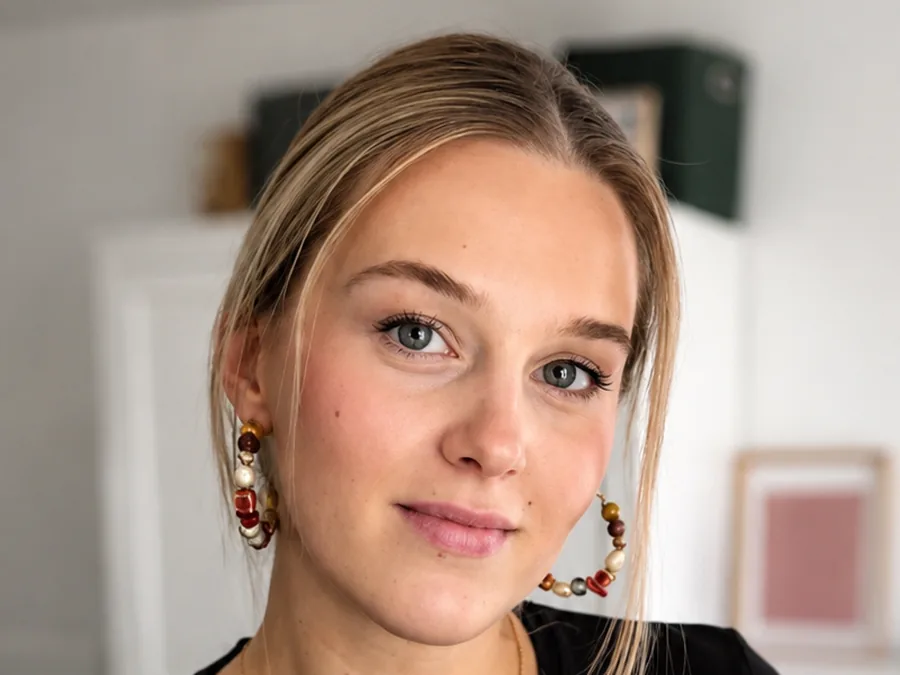
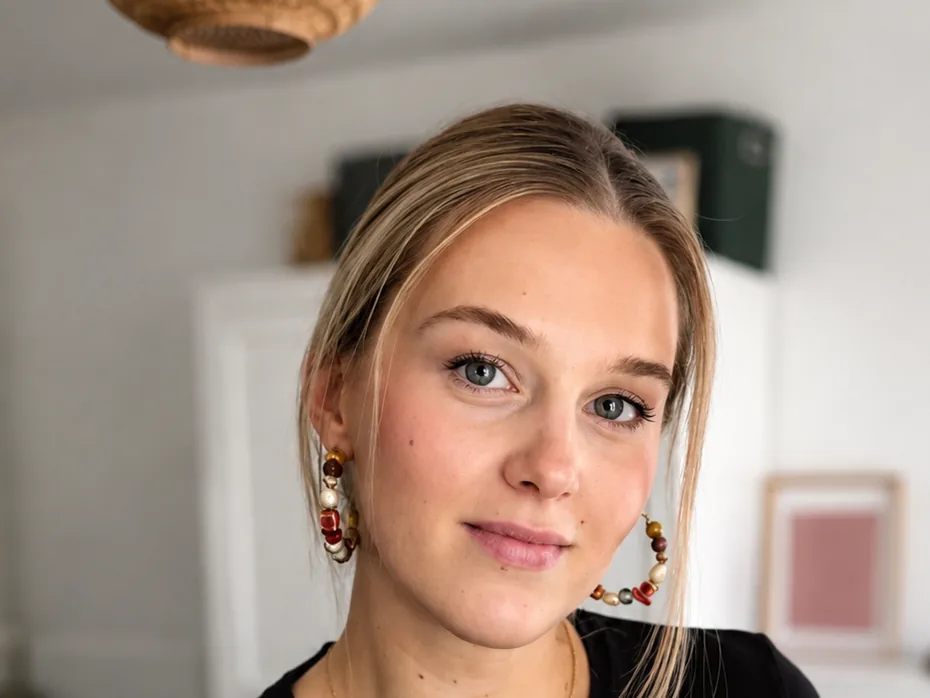
Héros mobile : la photo ramenée à 30 % de l'écran
Elle en occupait 40 %, et repoussait le bouton hors du premier écran sur
iPhone SE et iPhone 13. La hauteur passe en part d'écran (`svh`) plutôt
qu'en rapport d'image : 30 % du plus petit au plus grand téléphone, au lieu
de 36 à 40 % selon le modèle.

30 % s'est révélé être un plancher, pas un réglage esthétique. La photo
d'origine ne fait que 931 px de large : dans un cadre de 350 px, le visage
se rend à 188 px quoi qu'on fasse. À 26 % le cadre coupait le menton, et
une découpe 16/9 ne pouvait pas contenir la tête entière — la source est
verticale. La découpe mobile prend donc toute la largeur disponible : moins
on zoome, moins la tête occupe de hauteur une fois rendue, et plus la bande
visible peut être basse.

Le premier écran contient désormais la photo, la ville, le titre entier, le
texte et le bouton principal. L'accueil passe de 1,9 à 1,8 écran.

Claude-Session: https://claude.ai/code/session_01Ag5QUuzeD211m7UujAwsoY

diff --git a/assets/css/style.css b/assets/css/style.css
@@ -1055,9 +1055,15 @@ body.ready .anim-pop{ animation:pop .7s var(--ease-out) var(--d,0s) forwards; }
      hauteur est plafonnée : à 500 px elle repoussait le titre à 728 px,
      hors d'un écran de 664. */
   .hero__visual{ width:100%; max-width:460px; justify-self:center; order:-1; margin-bottom:0; }
-  /* La découpe horizontale est déjà cadrée pour cette arche : elle se
-     pose telle quelle, sans plafond de hauteur ni décalage à rattraper. */
-  .hero__photo{ aspect-ratio:4/3; }
+  /* Hauteur exprimée en part d'écran, pas en rapport d'image : à 4/3 la
+     photo prenait 40 % du premier écran et repoussait le bouton hors de
+     vue sur iPhone SE et 13. Ici elle en occupe ~26 % quel que soit le
+     téléphone, et le bouton rentre partout. */
+  /* 30 % de l'écran : en dessous, le cadre est trop court pour contenir
+     la tête entière — la photo d'origine ne fait que 931 px de large, donc
+     le visage se rend à 188 px quoi qu'on fasse. */
+  .hero__photo{ aspect-ratio:auto; height:clamp(165px,30svh,245px); }
+  .hero__photo img{ object-position:50% 42%; }
   /* Arche moins haute : sur une image large, un demi-cercle plein
      mangeait le haut du visage. */
   .hero__photo.arch{ border-radius:44% 44% var(--r-lg) var(--r-lg) / 30% 30% var(--r-lg) var(--r-lg); }

diff --git a/index.html b/index.html
@@ -165,7 +165,7 @@
                  du desktop, horizontale pour l'arche large du téléphone.
                  Rogner la verticale à la hauteur du mobile perdait les côtés. -->
             <picture>
-              <source media="(max-width:860px)" srcset="assets/img/marie-hero-large.webp" width="900" height="675">
+              <source media="(max-width:860px)" srcset="assets/img/marie-hero-large.webp" width="930" height="698">
               <img draggable="false" src="assets/img/marie-hero.webp" alt="Marie, masseuse bien-être à Voisins-le-Bretonneux" width="1040" height="1144" fetchpriority="high" decoding="async">
             </picture>
           </figure>

diff --git a/tools-photos.py b/tools-photos.py
@@ -21,20 +21,27 @@ DEST   = ROOT / 'assets/img'
 # Repères relevés sur la photo (fractions de largeur / hauteur).
 VISAGE_X, VISAGE_Y = 0.55, 0.40
 
-# nom, rapport largeur/hauteur, largeur finale, part de l'image gardée
+# nom, rapport, largeur finale, part de l'image gardée, visée verticale
+# (la visée par défaut convient aux formats hauts ; un bandeau large doit
+#  viser plus haut, sinon le crâne sort du cadre)
 FORMATS = [
     # Héros de l'accueil : arche, un peu plus haute que large.
-    ('marie-hero.webp',    1 / 1.1,  1040, 0.98),
+    ('marie-hero.webp',      1 / 1.1, 1040, 0.98, VISAGE_Y),
     # Page « à propos » : portrait 4/5.
-    ('marie-portrait.webp', 4 / 5,    800, 0.92),
+    ('marie-portrait.webp',  4 / 5,    800, 0.92, VISAGE_Y),
     # Héros sur téléphone : l'arche y est large et basse. Recadrer la
     # version verticale à cette hauteur rognait les côtés et cassait la
     # composition ; cette découpe-ci est cadrée pour ce format.
-    ('marie-hero-large.webp', 4 / 3,   900, 0.86),
+    # Cadrée large mais pas en bandeau : c'est le conteneur qui découpe
+    # la bande finale, via `object-position`. Une découpe 16/9 ne pouvait
+    # pas contenir la tête entière, la photo d'origine étant verticale.
+    # Toute la largeur disponible : moins on zoome, moins la tête occupe
+    # de hauteur une fois rendue, et plus la bande visible peut être basse.
+    ('marie-hero-large.webp', 4 / 3,   930, 1.00, 0.385),
 ]
 
 
-def recadre(im, rapport, part):
+def recadre(im, rapport, part, visee_y):
     """Recadre autour du visage, en gardant `part` de la dimension limitante."""
     W, H = im.size
     # Plus grande boîte au bon rapport qui tienne dans l'image.
@@ -45,7 +52,7 @@ def recadre(im, rapport, part):
         w = W * part
         h = w / rapport
 
-    cx, cy = W * VISAGE_X, H * VISAGE_Y
+    cx, cy = W * VISAGE_X, H * visee_y
     x = min(max(cx - w / 2, 0), W - w)
     y = min(max(cy - h / 2, 0), H - h)
     return im.crop((round(x), round(y), round(x + w), round(y + h)))
@@ -57,8 +64,8 @@ def main():
     src = Image.open(SOURCE).convert('RGB')
     print(f'source : {src.size[0]}×{src.size[1]}')
 
-    for nom, rapport, largeur, part in FORMATS:
-        im = recadre(src, rapport, part)
+    for nom, rapport, largeur, part, visee in FORMATS:
+        im = recadre(src, rapport, part, visee)
         im = im.resize((largeur, round(largeur / rapport)), Image.LANCZOS)
         chemin = DEST / nom
         im.save(chemin, quality=82, method=6)

diff --git a/README.md b/README.md
@@ -148,10 +148,19 @@ python3 tools-photos.py
 | `marie-portrait.webp`   | bloc « à propos »         | 800 × 1000  |
 
 Le héros sert **une découpe par format**, via `<picture>`. L'arche est haute
-sur desktop, large et basse sur téléphone : rogner la version verticale à cette
-hauteur perdait les côtés et cassait la composition. Le script d'aperçu intègre
-donc `srcset` autant que `src`, sans quoi l'image mobile serait introuvable dans
+sur desktop, large et basse sur téléphone. Le script d'aperçu intègre donc
+`srcset` autant que `src`, sans quoi l'image mobile serait introuvable dans
 l'artifact.
+
+Sur téléphone la photo occupe **30 % de l'écran**, hauteur exprimée en `svh` et
+non en rapport d'image : la part reste la même du plus petit au plus grand
+téléphone. Elle en prenait 40 %, et repoussait le bouton hors du premier écran.
+
+30 % est un plancher, pas un choix esthétique : la photo d'origine ne fait que
+931 px de large, donc dans un cadre de 350 px le visage se rend à 188 px quoi
+qu'on fasse. En dessous de ~200 px de haut, le cadre coupe le menton ou le
+front. C'est aussi pourquoi la découpe mobile prend toute la largeur disponible
+— moins on zoome, moins la tête occupe de hauteur une fois rendue.
 
 Le point de visée est le **visage**, pas le centre de l'image : un recadrage
 centré coupait le haut du crâne sur le format le plus carré. Les repères sont
